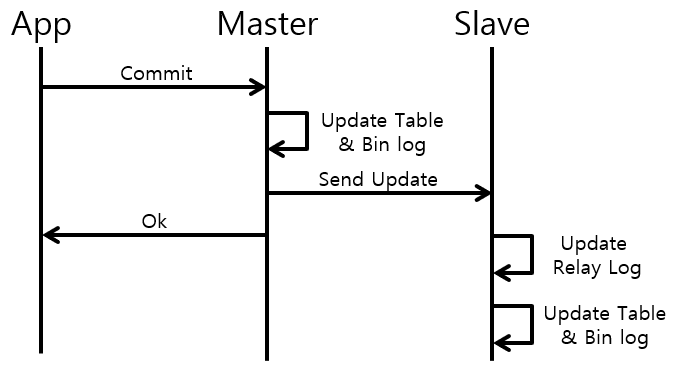
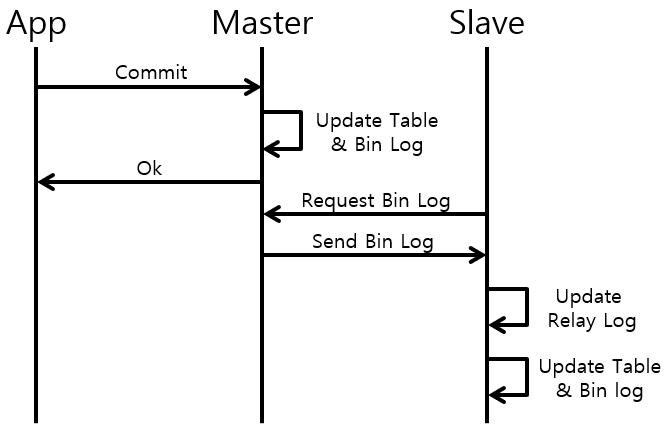
Update MySQL Replication

Changed region(s): [[0.0, 0.0296, 0.9567, 0.9784], [0.7175, 0.8005, 0.9865, 0.9784], [0.6577, 0.0, 0.8072, 0.1482]]

diff --git a/_docs/theory_analysis/MySQL_Replication.md b/_docs/theory_analysis/MySQL_Replication.md
@@ -23,9 +23,11 @@ Master DB에 장애가 발생한다면 DB 관리자는 Slave DB를 Master DB로 
 
 ![]({{site.baseurl}}/images/theory_analysis/MySQL_Replication/Master_Slave_Async_Replication.PNG){: width="550px"}
 
-Replication 동작 과정을 이해하기 위해서는 **Binary Log**, **Relay Log**를 이해해야한다. Binary Log는 DB 변경 내용을 기록하는 Log이다. Relay Log는 Slave DB에 위치하며, Master DB는 Master DB의 변경된 Binary Log를 Slave의 Relay Log에 기록한다. Slave DB는 Relay Log 내용을 바탕으로 비동기적으로 DB를 변경한다.
+Replication 동작 과정을 이해하기 위해서는 **Binary Log**, **Relay Log**를 이해해야한다. Binary Log는 모든 MySQL DB에서 이용되며 DB 변경 내용을 기록하는데 이용하는 Log이다. Relay Log는 Slave DB에만 위치하며, Master DB의 Binary Log 내용을 기록하는데 이용하는 Log이다.
 
-위의 그림은 Async Replication을 나타내고 있다. Async Replicaiton은 Master DB가 Slave DB에게 DB 변경 내용을 전달만하고 Slave DB의 상태를 확인하지 않는다. 따라서 Master DB가 Async Replication 동작을 수행해도 DB 성능저하가 거의 발생하지 않는다. 또한 Slave DB에 장애가 발생하여도 Transaction은 중단되지 않고 진행된다.
+위의 그림은 Async Replication을 나타내고 있다. Master DB는 Slave DB에 관계없이 DB를 변경하고 DB 변경 내용을 Binary Log에 기록한다. Slave DB는 Master DB에 연결하여 주기적으로 변경된 Master의 Binary Log를 얻어 자신의 Relay Log에 기록하고, Relay Log 내용을 바탕으로 자신의 DB 변경 및 Binary Log를 갱신한다.
+
+Master DB는 Transaction 수행 중 Slave DB로 인한 추가적인 동작을 수행하지 않는다. 따라서 Master DB는 Slave DB로 인한 성능 저하가 거의 발생하지 않는다. Async 방식이기 때문에 Master DB에서 Transaction이 완료된 DB 변경 내용이더라도 Slave에는 바로 반영되지 않는다. 이는 Master DB의 갑작스러운 장애가 Data 손실로 이어질 수 있다는 의미이다. Slave DB의 장애는 Master DB의 Transaction에 아무런 영향을 주지 않는다. 장애가 발생했던 Slave DB는 복구 된 후 자신의 Relay Log, Binary Log 및 Master DB의 Binary Log를 바탕으로 중단되었던 Replication을 이어서 진행한다.
 
 #### 1.2. Semi-sync Replication
 
